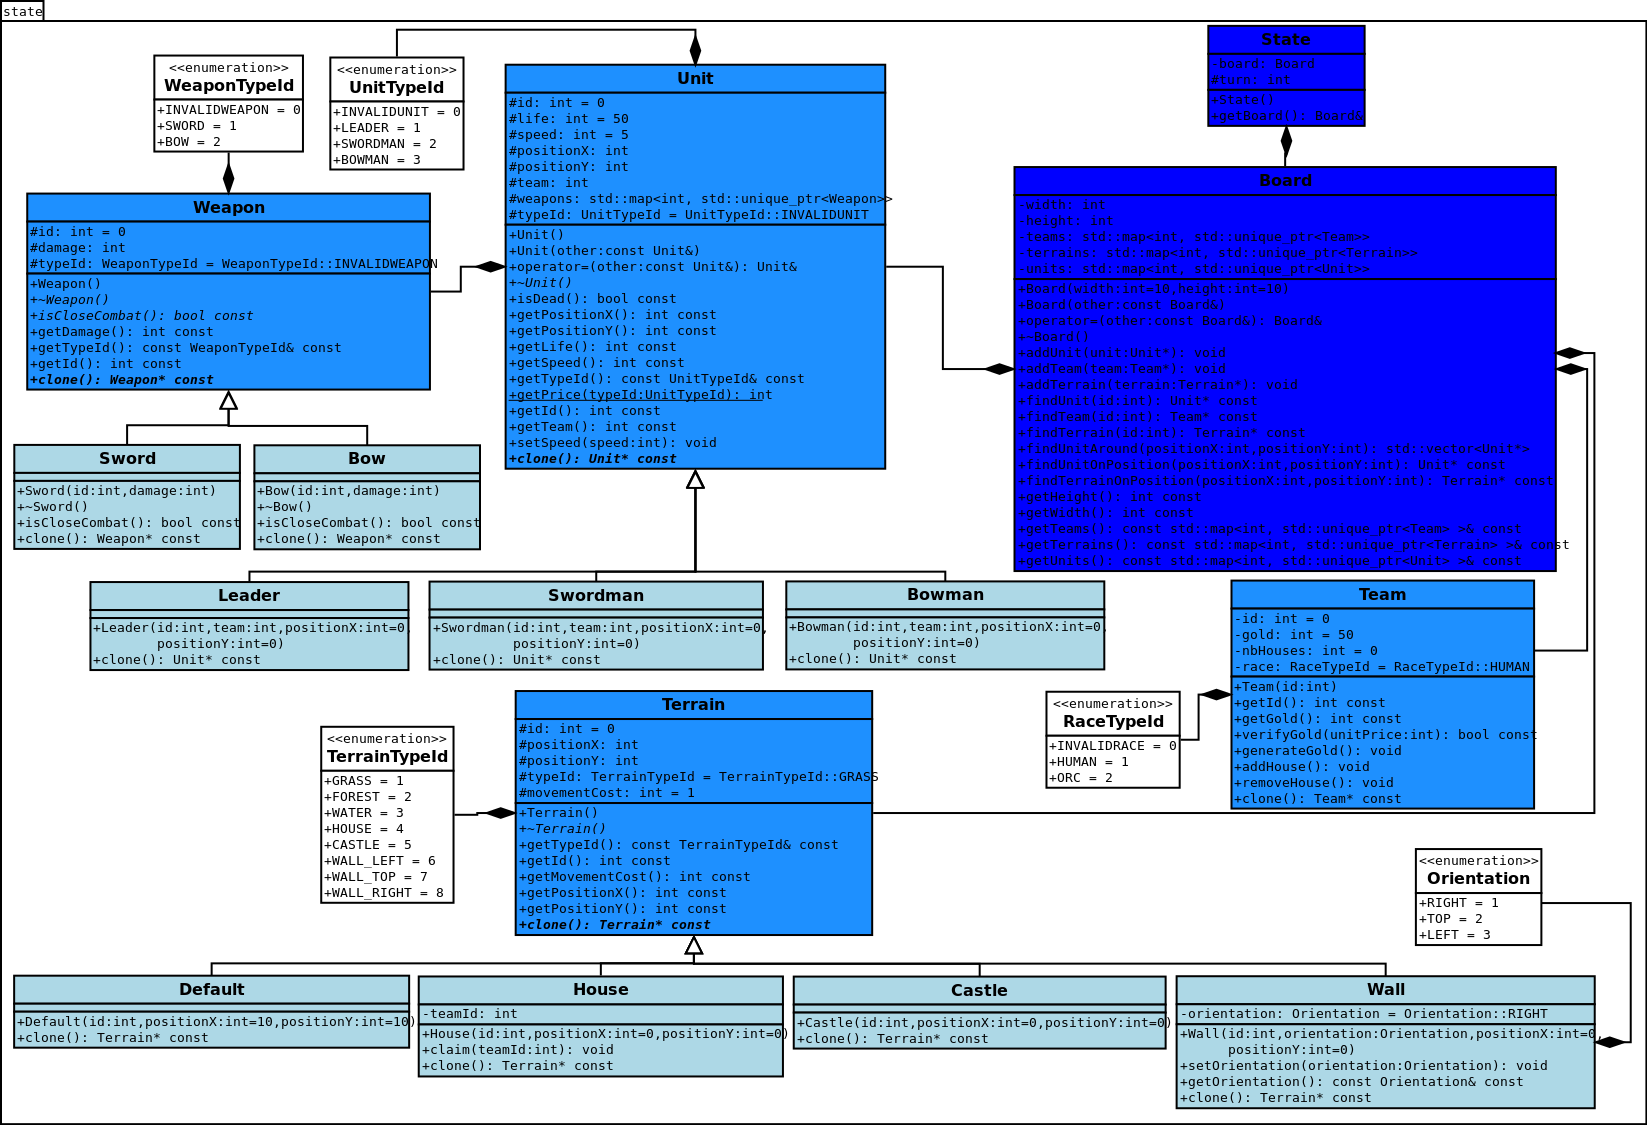
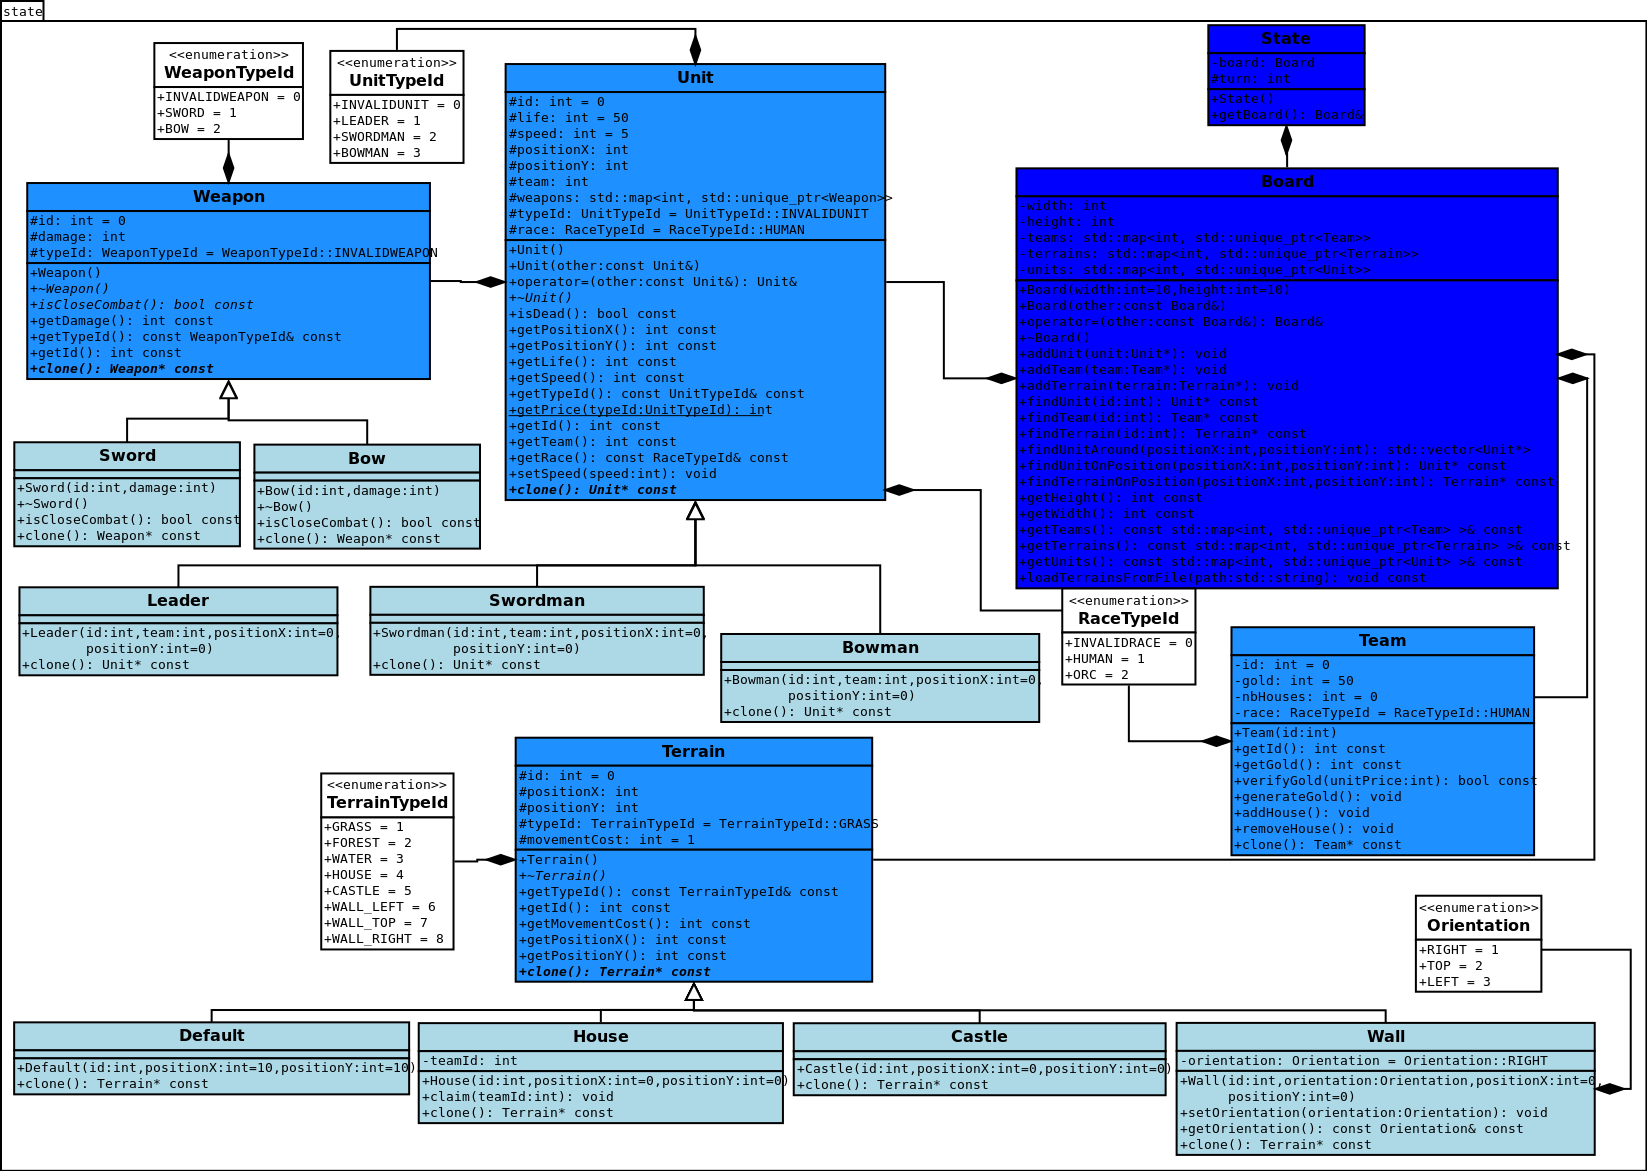
Add race to Unit class and loadTerrainsFromFile to Board

Changed region(s): [[0.0, 0.0, 1.0, 1.0], [0.929, 0.28, 0.9599, 0.3422], [0.0, 0.0, 0.031, 0.0311]]

diff --git a/src/shared/state/Unit.h b/src/shared/state/Unit.h
@@ -11,6 +11,7 @@ namespace state {
 }
 
 #include "UnitTypeId.h"
+#include "RaceTypeId.h"
 #include "Weapon.h"
 
 namespace state {
@@ -28,6 +29,7 @@ namespace state {
     int team;
     std::map<int, std::unique_ptr<Weapon>> weapons;
     UnitTypeId typeId     = UnitTypeId::INVALIDUNIT;
+    RaceTypeId race     = RaceTypeId::HUMAN;
     // Operations
   public:
     Unit ();
@@ -43,6 +45,7 @@ namespace state {
     static int getPrice (UnitTypeId typeId);
     int getId () const;
     int getTeam () const;
+    const RaceTypeId& getRace () const;
     void setSpeed (int speed);
     virtual Unit* clone () const = 0;
     // Setters and Getters
@@ -54,6 +57,7 @@ namespace state {
     const std::map<int, std::unique_ptr<Weapon>>& getWeapons() const;
     void setWeapons(const std::map<int, std::unique_ptr<Weapon>>& weapons);
     void setTypeId(UnitTypeId typeId);
+    void setRace(RaceTypeId race);
   };
 
 };

diff --git a/src/shared/state/Board.cpp b/src/shared/state/Board.cpp
@@ -1,3 +1,5 @@
+#include <fstream>
+
 #include "Board.h"
 
 namespace state {
@@ -124,5 +126,26 @@ namespace state {
         terrains.clear();
         units.clear();
     }
+
+    void Board::loadTerrainsFromFile(std::string path) const {
+        std::vector<int> terrainsTmp;
+        std::ifstream file;
+        file.open(path, std::ios::in);    
+        std::string line;
+            
+        while(!file.eof()){
+            std::getline(file, line);
+                
+            for(auto l : line) {
+                terrainsTmp.push_back(l - '0');
+            }
+        }
+        
+        file.close();
+        
+        for(auto t : terrainsTmp) {
+        }
+    }
+
 
 }

diff --git a/src/shared/state/Board.h b/src/shared/state/Board.h
@@ -5,6 +5,7 @@
 #include <map>
 #include <memory>
 #include <vector>
+#include <string>
 
 namespace state {
   class Board;
@@ -56,6 +57,7 @@ namespace state {
     const std::map<int, std::unique_ptr<Team> >& getTeams () const;
     const std::map<int, std::unique_ptr<Terrain> >& getTerrains () const;
     const std::map<int, std::unique_ptr<Unit> >& getUnits () const;
+    void loadTerrainsFromFile (std::string path) const;
     // Setters and Getters
   };
 
